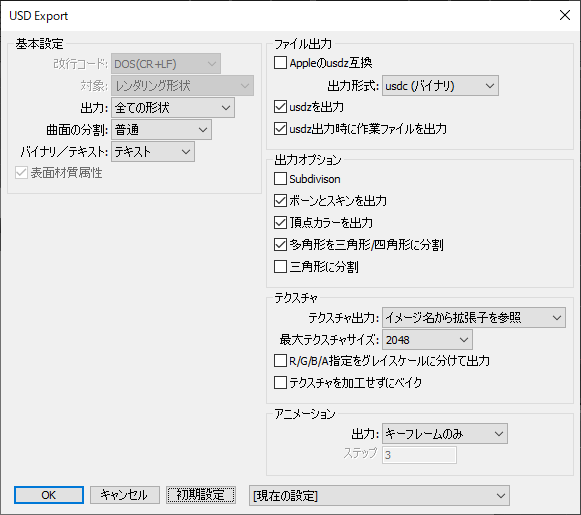
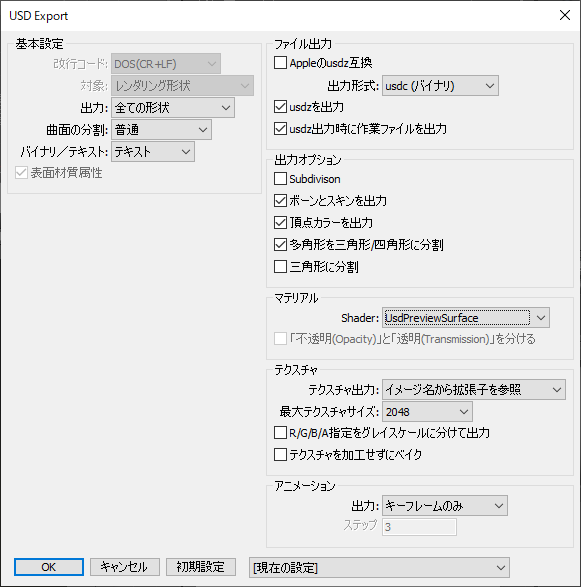
ver.0.1.1.0
readme/ドキュメントの更新
Macプロジェクトを更新

diff --git a/Omniverse/readme.md b/Omniverse/readme.md
@@ -1,0 +1,105 @@
+# NVIDIA Omniverse対応について
+
+これは、Omniverse Create 2021.1.1使用時の情報になります。     
+
+## NVIDIA Omniverseとは ?
+
+NVIDIA OmniverseはNVIDIA社が提供しています。      
+Omniverseはリアルタイムシミュレーションや、複数人で3D情報を共有して共同で作業を行う場を提供したりできる、     
+オープンなプラットフォームです。      
+2021年5月段階ではオープンベータです。      
+
+https://www.nvidia.com/ja-jp/omniverse/
+
+開発ツール、映像表現やシミュレーションなどを行う仮想環境（リアルタイムレイトレーシング使用）、Omniverseにつなぐコネクタ、
+サーバ環境(Nucleus)、などさまざまな機能が提供されています。    
+用途としては、建築のためのビュワー、複数人で作業を共有、映像制作、AI(3D Deep Learning)のための学習環境、シミュレーション環境、アセットの管理、などさまざまです。     
+
+リアルタイムレイトレーシングを使用した3DCG表現を行う環境が提供されています。     
+オフラインレンダラのようなフォトリアルな品質をリアルタイムで表現することができます。      
+なお、NVIDIA社のRTX対応のグラフィック環境が必要です。      
+
+動作に必要な環境は以下に記載されています。      
+
+https://docs.omniverse.nvidia.com/plat_omniverse/plat_omniverse/technical.html
+
+3Dとしてだけではなく、「Nucleus」という仕組みを使用することで3Dモデルを共有する環境を構築できます。      
+
+これらのすべての基盤になるファイルフォーマットが「USD」になります。      
+シーンファイルは、USD形式で保持されます。      
+また、コネクタを使用しての相互の情報交換もUSDを使用して行います。      
+3Dモデルの受け渡しもUSDファイルを使用します。     
+
+## USD Exporter for Shade3DからUSDファイルを渡す
+
+Omniverseは、USDの標準のマテリアルのShaderである「UsdPreviewSurface」を受け取ることができますが、これは表現として弱い部分があります。     
+
+そこで、OmniverseではMDL(Material Definition Language)を使用して表現を拡張しています。      
+MDLはNVIDIA社が提供しているShader言語です。     
+Omniverseでは「OmniPBR」と「OmniGlass」といった、あらかじめ用意されたMDLのShaderを指定できます。       
+「OmniPBR」はPBRマテリアルを表現、「OmniGlass」は透明度のあるガラス表現を行います。      
+MDLを使用すると、より表現の幅が広がります。      
+USD Exporter for Shade3Dでは、この「OmniPBR」と「OmniGlass」の出力に対応しています。      
+
+エクスポートダイアログボックスの「マテリアル」の「Shader」で「NVIDIA Omniverse(MDL)」を選択すると、     
+USDのマテリアルのShaderとしてMDL用の出力を行います。     
+<img src="../docs/images/usd_export_dlg_03.png" />    
+
+なお、MDL用の出力を行った場合、Pixarの提供するusdviewやAppleのAR Quick Lookではマテリアルが正しく表現できなくなるため注意が必要です。      
+「OmniPBR」や「OmniGlass」のMDL出力は、Omniverse環境でのみ使用できる指定になります。     
+
+## 不透明(Opacity)と透明度(Transmission)を分ける
+
+※ この表現は「NVIDIA Omniverse(MDL)」時にのみ有効です。      
+
+エクスポート時に「不透明(Opacity)と透明度(Transmission)を分ける」チェックボックスをOnにすると、Shade3Dの「不透明マスク」はCutout(Cutoff)として使用されます。    
+なお、「不透明マスク」でCutout表現を行う際は表面材質ウィンドウの「情報」で「AlphaMode (glTF/USD)」を選択し、      
+「AlphaMode」で「MASK」を選択するようにします。     
+<img src="../docs/images/usd_export_material_alpha_cutoff_02.png" />    
+テクスチャのピクセル値で「AlphaCutoff」値をしきい値にしてピクセル単位のトリミングを行います。     
+これにより、木の葉のような表現を行うことができます。      
+
+「透明」が0.0よりも大きい場合は、Omniverseに渡したときに「OmniGlass」のShaderが割り当てられます。     
+<img src="../docs/images/usd_export_transparency_01.png" />    
+「透明」スライダの値はOmniverse側では反映されず、常に「グラス」になります。      
+また、「OmniGlass」のShaderでは「屈折」の値を反映することができます。      
+ガラスを濁らせる場合は「荒さ」の値を上げるようにしてください。    
+
+以下はShade3D上でのレンダリング(DOKI for Shade3D(OSPRay)を使用)です。    
+<img src="../docs/images/usd_export_transparency_02.jpg" />    
+これをUSDでエクスポートしてOmniverse Createに渡すと、以下のようになりました。     
+RTX Path-tracedのリアルタイムパストレーシング表現です。     
+<img src="../docs/images/usd_export_transparency_03.jpg" />    
+なお、現在のUSD Exporter for Shade3Dで渡されるのは3Dモデルとテクスチャのみです。     
+背景のHDRIや光源はOmniverse側で割り当てました。     
+
+このような透明＋屈折は、UsdPreviewSurfaceでは表現できないものになります。     
+
+## 発光の指定
+
+※ この表現は「NVIDIA Omniverse(MDL)」時にのみ有効です。      
+
+表面材質の「発光」が0.0よりも大きい場合、スライダの値が発光の強さとして使用されます。      
+また発光の色は発光色として使用されます。      
+<img src="../docs/images/usd_export_emissive_01.png" />    
+Omniverseに渡す際は「発光の強さ * 5000」が「OmniPBR」の「Emissive Intensity」に入ります。      
+
+以下はShade3D上でのレンダリング(DOKI for Shade3D(OSPRay)を使用)です。    
+<img src="../docs/images/usd_export_emissive_02.jpg" />    
+これをUSDでエクスポートしてOmniverse Createに渡すと、以下のようになりました。     
+<img src="../docs/images/usd_export_emissive_03.jpg" />    
+
+
+
+## Omniverseでの制限事項
+
+現在は以下のような制限があります。     
+Omniverse Create 2021.1.1段階の情報です。     
+
+* DoubleSided指定はできません。常に両面描画となります。      
+* UVレイヤは1層だけ使用できます。
+* 頂点カラーを表現することはできません。
+* 4角形以上の多角形を使用している場合は、うまく面が表現できないときがあります。    
+この場合は、USD Exporter for Shade3Dのエクスポートオプションで「多角形を三角形/四角形に分割」「三角形に分割」チェックボックスをOnにしてください。    
+* Unlit表現はできません（これはUSD自身にその仕様がないため）。
+

diff --git a/UpdateLog.md b/UpdateLog.md
@@ -1,5 +1,10 @@
 # 更新履歴
 
+[2021/05/02] ver.0.1.1.0   
+* Changed : ノード名は、シーン階層が異なる場合に同一名も許可するように修正
+* Added : NVIDIA OmniverseのMDL(OmniPBR/OmniGlass)へのエクスポートの対応
+* Added : DOKI for Shade3D(OSPRay)のGlass/LuminousのマテリアルをUSDにも反映できるようにした(これはMDL時に反映される)
+
 [2021/03/01] ver.0.1.0.2   
 
 * Added : エクスポートオプションに「三角形に分割」を追加
